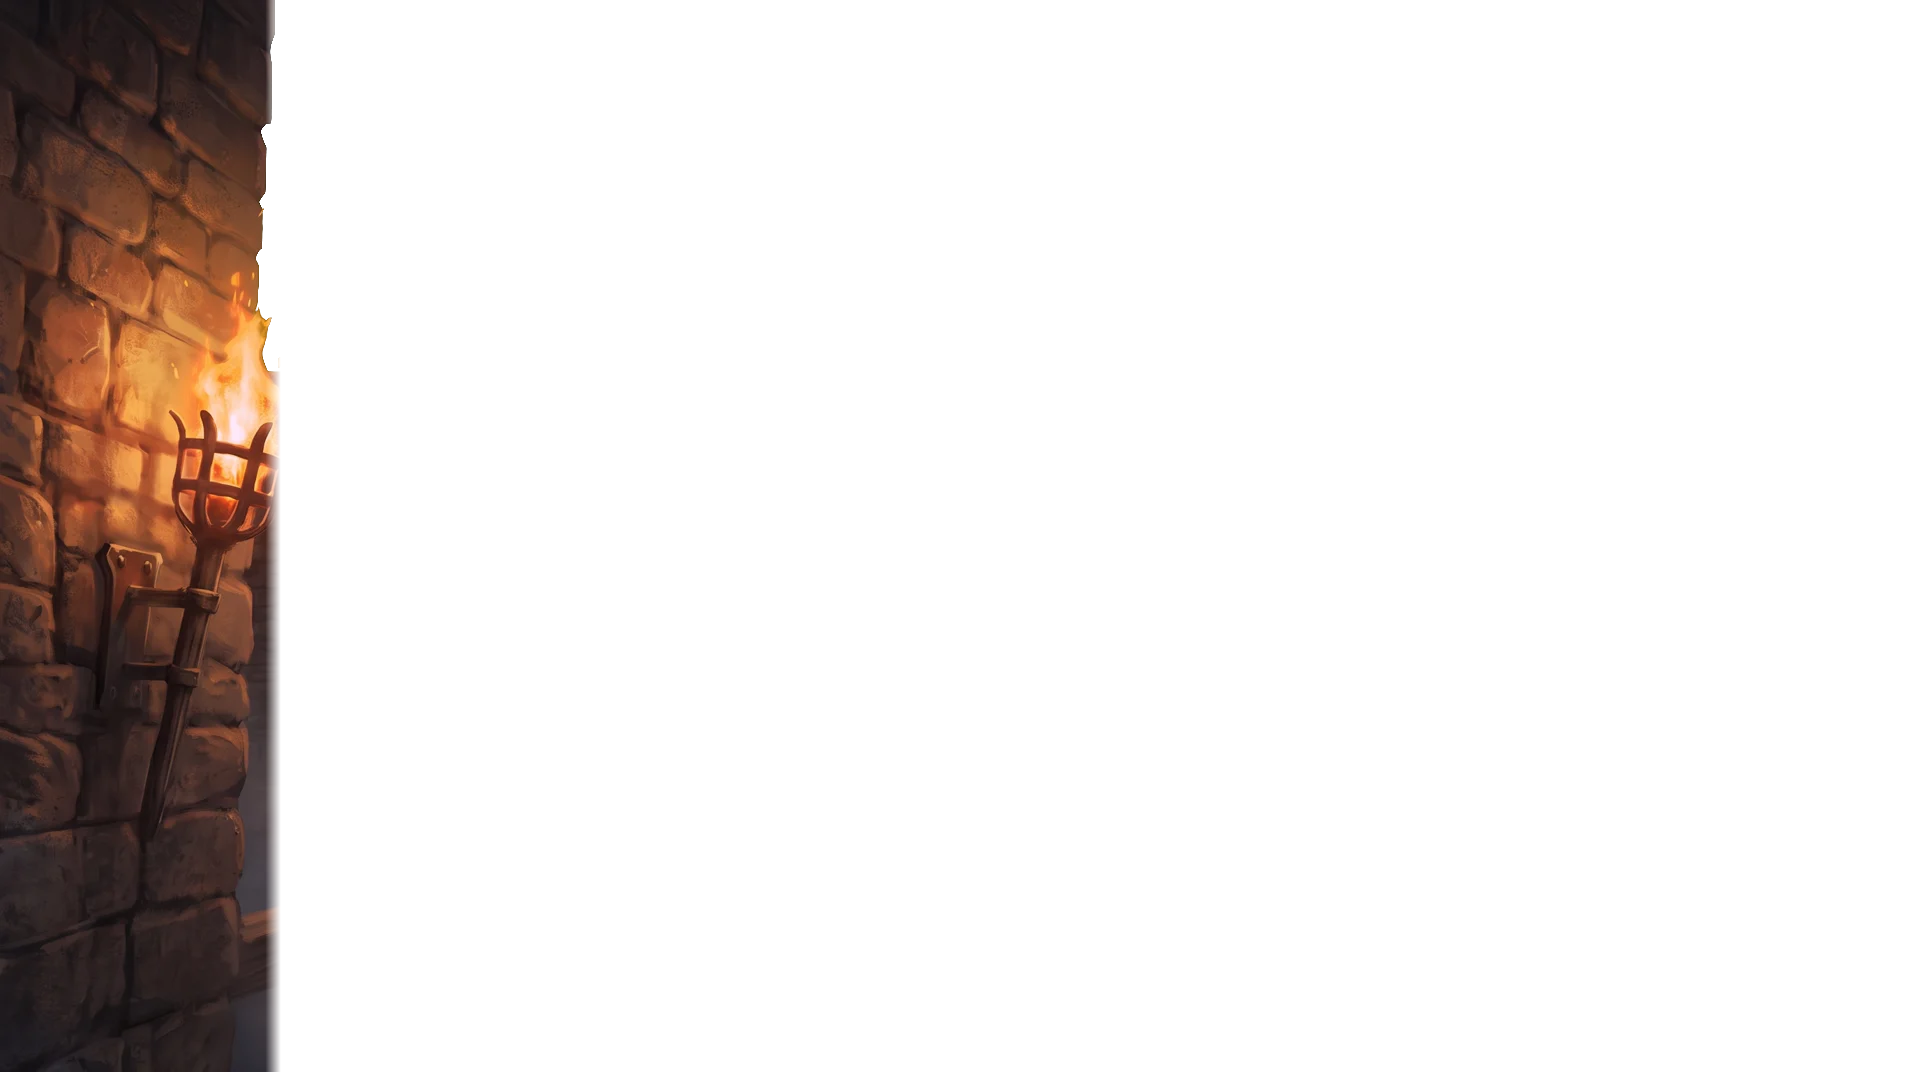
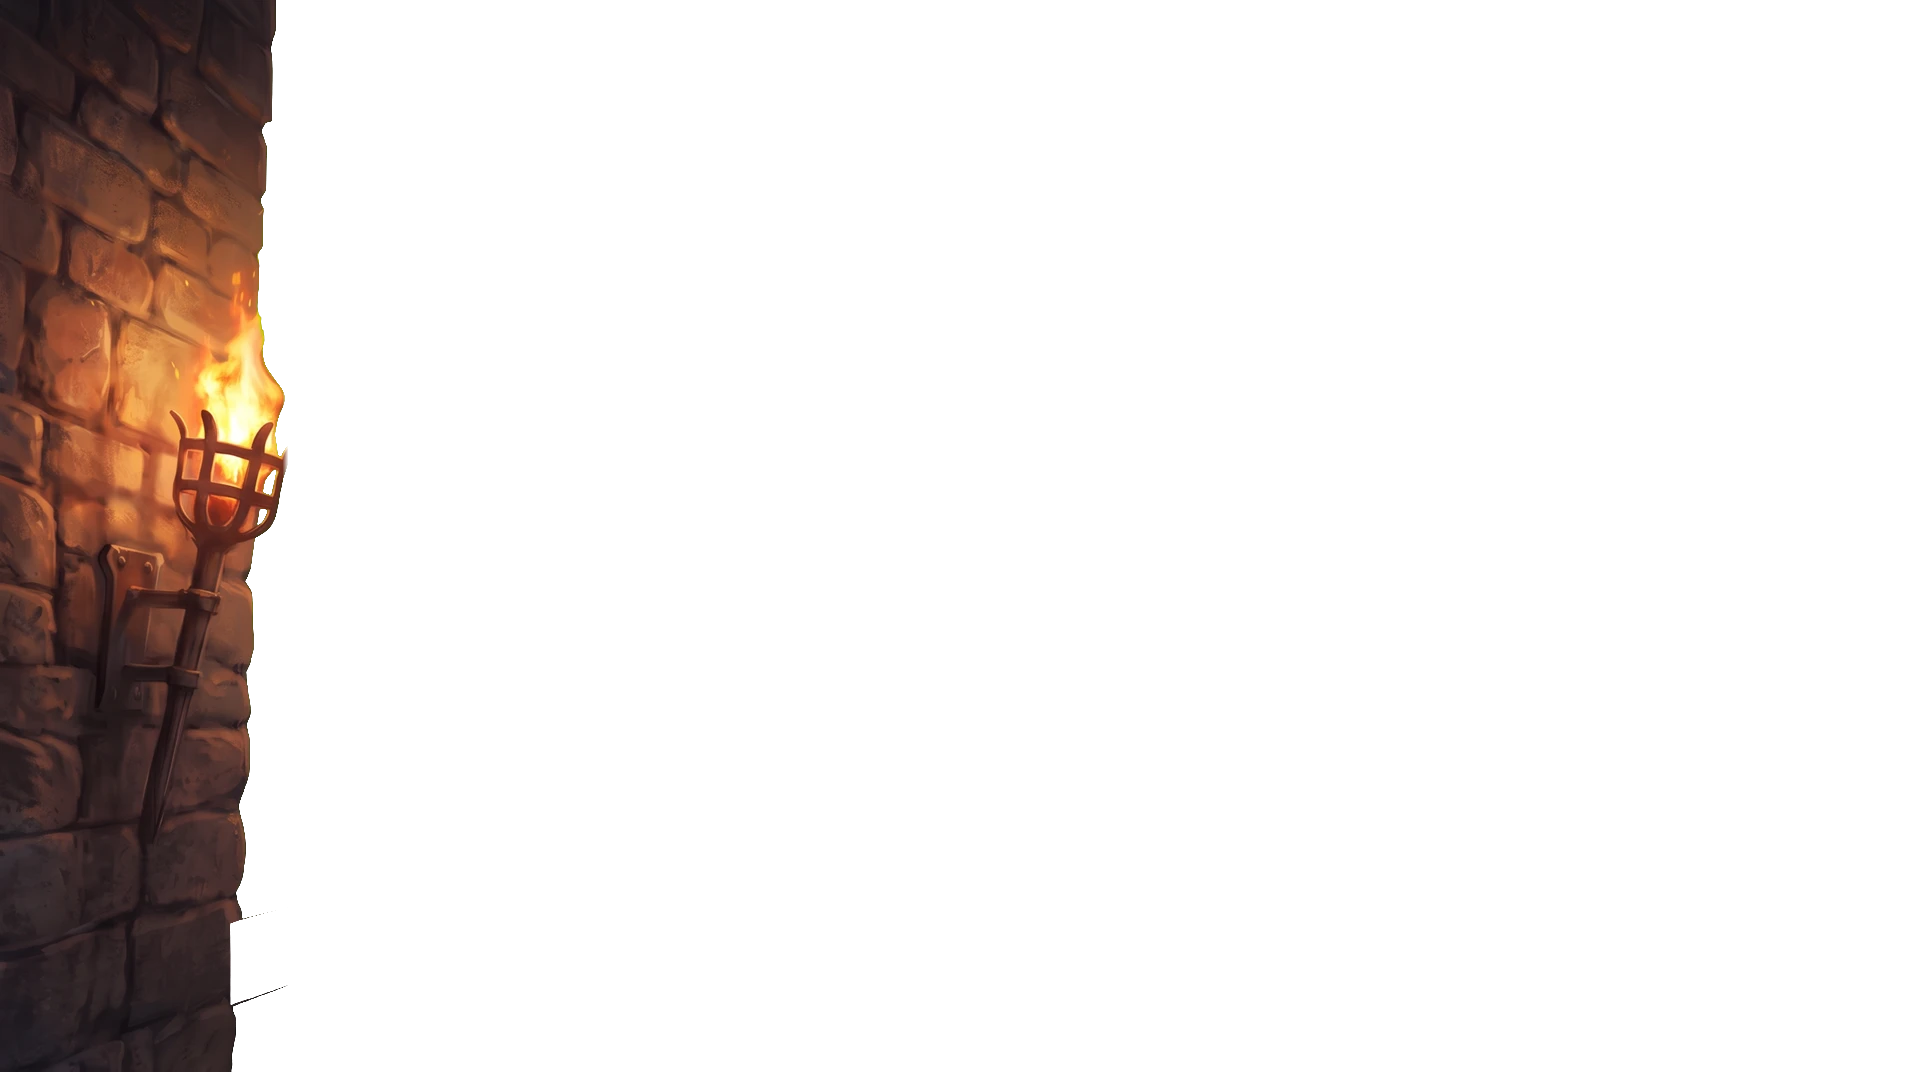
Wachterstocht gate: complete layers, staged as gatehouse, bridge, walls with sky; then a slow walk in
The gatehouse is now a full painting with moat and mist to every edge, the bridge and the walls are separate cut-outs, so moving layers never show a cut line. The gatehouse grows out of the dark behind a soft oval mask, the bridge rises from below, the walls close in with the sky and rocks. Torch fire and glows live in their own layer so they stay on the torches while the camera walks in with parallax.

Changed region(s): [[0.0625, 0.2771, 0.1562, 1.0], [0.125, 0.0, 0.1562, 0.0308]]

diff --git a/docs/index.html b/docs/index.html
@@ -477,31 +477,45 @@ button:focus-visible { outline: 2px solid var(--bone); outline-offset: 3px; }
 .scene { transform-origin: 13% 16%; transition: filter 1.6s ease, transform 7.5s cubic-bezier(.5,0,.75,.5); }
 .stage.inzoom .scene { transform: translate(40vw, 40vh) scale(2.6); filter: brightness(.6) saturate(1.2); } /* the castle (top left) moves to the middle */
 .stage.inzoom .hall { opacity: 0; pointer-events: none; }
-.tocht-decor { position: absolute; inset: 0; z-index: 5; overflow: hidden; background: #000; opacity: 0; transition: opacity 4.5s ease; pointer-events: none; }
+.tocht-decor { position: absolute; inset: 0; z-index: 5; overflow: hidden; background: #000; opacity: 0; transition: opacity 1.4s ease; pointer-events: none; }
 .tocht-decor.aan { opacity: 1; }
 .tocht-decor .p-beeld { position: absolute; } /* sized like object-fit: cover by dekBeeld(), so every layer, flame and the raven stay on their spot */
 .tocht-decor .pl { position: absolute; inset: 0; }
 .tocht-decor .pl img, .tocht-decor canvas { position: absolute; inset: 0; width: 100%; height: 100%; }
-/* entrance: sky first, then the gatehouse rises, the bridge comes up, the walls close in from the sides */
-.tocht-decor .pl-lucht { opacity: 0; transform: scale(1.12); transition: opacity 3.5s ease, transform 6s cubic-bezier(.2,.8,.3,1); }
-/* first the bridge comes up from below, then the gatehouse grows out of the depth (small to full size), then the walls close in */
-.tocht-decor .pl-brug { opacity: 0; transform: translateY(40%); transition: opacity 1.6s ease .8s, transform 2.6s cubic-bezier(.15,.85,.3,1) .8s; }
-.tocht-decor .pl-poort { opacity: 0; transform: scale(.78); transform-origin: 50% 74%; filter: blur(3px) brightness(.6); transition: opacity 2.6s ease 2.4s, transform 3.4s cubic-bezier(.2,.8,.3,1) 2.4s, filter 3s ease 2.4s; }
-.tocht-decor .pl-muur-l { transform: translateX(-100%); transition: transform 2.8s cubic-bezier(.15,.85,.3,1) 4.2s; }
-.tocht-decor .pl-muur-r { transform: translateX(100%); transition: transform 2.8s cubic-bezier(.15,.85,.3,1) 4.2s; }
-.tocht-decor .pl-vuur, .tocht-decor .fakkel, .tocht-decor .pl-mist, .tocht-decor .pl-vogels { opacity: 0; transition: opacity 2.5s ease 5.6s; }
+/* entrance, like a stage being set: 1. the gatehouse grows out of the dark, 2. the bridge comes up from below,
+   3. the walls close in from the sides while the sky and the rocks behind the castle appear.
+   Every layer is a complete cut-out with its own soft edges, and the gatehouse is masked with a soft oval
+   while it grows, so no straight edge is ever seen. After that the camera slowly walks in (.loop). */
+.tocht-decor .pl-poort { opacity: 0; transform: scale(.84); transform-origin: 50% 66%; filter: blur(4px) brightness(.5);
+  -webkit-mask: radial-gradient(closest-side, #000 60%, transparent) center / 100% 100% no-repeat; mask: radial-gradient(closest-side, #000 60%, transparent) center / 100% 100% no-repeat;
+  transition: opacity 2.4s ease, transform 3.8s cubic-bezier(.2,.8,.3,1), filter 3.2s ease, -webkit-mask-size 3.8s ease-in, mask-size 3.8s ease-in; }
+.tocht-decor .pl-brug { opacity: 0; transform: translateY(45%); transform-origin: 50% 66%; transition: opacity 1.2s ease 2.6s, transform 2.8s cubic-bezier(.15,.85,.3,1) 2.6s; }
+.tocht-decor .pl-muur-l { transform: translateX(-100%); transform-origin: 0 55%; transition: transform 2.8s cubic-bezier(.15,.85,.3,1) 4.6s; }
+.tocht-decor .pl-muur-r { transform: translateX(100%); transform-origin: 100% 55%; transition: transform 2.8s cubic-bezier(.15,.85,.3,1) 4.6s; }
+.tocht-decor .pl-lucht { opacity: 0; transform: scale(1.12); transition: opacity 3.5s ease 4.6s, transform 6s cubic-bezier(.2,.8,.3,1) 4.6s; }
+.tocht-decor .pl-mist, .tocht-decor .pl-vogels { opacity: 0; transition: opacity 3s ease 4s; }
+.tocht-decor .pl-poort .vuur, .tocht-decor .pl-poort .fakkel { opacity: 0; transition: opacity 2s ease 1.8s; }
+.tocht-decor.aan .pl-poort .vuur, .tocht-decor.aan .pl-poort .fakkel { opacity: 1; }
+.tocht-decor.aan .pl-poort { -webkit-mask-size: 340% 340%; mask-size: 340% 340%; }
+/* the walk in: nearer layers grow more, the walls part to the sides, all very slowly */
+.tocht-decor.loop .pl { transition: transform 18s cubic-bezier(.45,.05,.4,1); }
+.tocht-decor.aan.loop .pl-lucht { transform: scale(1.04); }
+.tocht-decor.aan.loop .pl-poort, .tocht-decor.loop .pl-brug { transform: scale(1.1); }
+.tocht-decor.aan.loop .pl-mist { transform: scale(1.16); transform-origin: 50% 85%; }
+.tocht-decor.aan.loop .pl-muur-l { transform: translateX(-7%) scale(1.22); }
+.tocht-decor.aan.loop .pl-muur-r { transform: translateX(7%) scale(1.22); }
 /* the five tasks come in one by one, so the castle can be seen first */
 .stage.in-kasteel #tocht .opdr { animation: opdrIn 1.1s cubic-bezier(.2,.9,.3,1) both; animation-delay: calc(var(--i) * .8s + .4s); }
 @keyframes opdrIn { from { opacity: 0; transform: translateY(6vh) scale(.92); filter: blur(4px); } }
 .tocht-decor.aan .pl-lucht { opacity: 1; transform: none; }
 .tocht-decor.aan .pl-poort, .tocht-decor.aan .pl-brug { opacity: 1; transform: none; filter: none; }
 .tocht-decor.aan .pl-muur-l, .tocht-decor.aan .pl-muur-r { transform: none; }
-.tocht-decor.aan .pl-vuur, .tocht-decor.aan .fakkel, .tocht-decor.aan .pl-mist, .tocht-decor.aan .pl-vogels { opacity: 1; }
+.tocht-decor.aan .pl-mist, .tocht-decor.aan .pl-vogels { opacity: 1; }
 .tocht-decor .pl-lucht img { animation: wolken 60s ease-in-out infinite alternate; }
 @keyframes wolken { from { transform: scale(1.02); } to { transform: scale(1.1) translate(-1.5%, .6%); } }
 .tocht-decor .pl-lucht.flits img { filter: brightness(1.9) saturate(1.3); transition: filter .05s; }
 .tocht-decor .pl-lucht img { transition: filter .6s ease; }
-.tocht-decor .pl-vuur { mix-blend-mode: plus-lighter; }
+.tocht-decor .vuur { mix-blend-mode: plus-lighter; }
 .tocht-decor .poort-raaf { left: 27.2%; top: 11.8%; width: 5.2%; }
 .tocht-decor .fakkel { position: absolute; width: 26%; aspect-ratio: 1; translate: -50% -50%; border-radius: 50%; mix-blend-mode: plus-lighter; pointer-events: none;
   background: radial-gradient(circle, rgba(255,190,110,.42), rgba(255,110,40,.18) 35%, transparent 68%); animation: fakkel 2.3s ease-in-out infinite; }
@@ -691,13 +705,11 @@ kbd { font: 11px var(--body); border: 1px solid rgba(239,227,212,.25); border-ra
   <div class="tocht-decor" id="tocht-decor"><div class="p-beeld" id="p-beeld">
     <div class="pl pl-lucht"><img id="tocht-beeld" src="a/poort/lucht.webp" alt=""><canvas id="poort-bliksem"></canvas></div>
     <canvas class="pl pl-vogels" id="poort-vogels"></canvas>
-    <div class="pl pl-poort"><img src="a/poort/poort.webp" alt=""><div class="raven poort-raaf"><div class="raaf-sprite"></div></div></div>
+    <div class="pl pl-poort"><img src="a/poort/poort.webp" alt=""><canvas class="vuur" id="poort-vuur"></canvas><span class="fakkel klein b" style="left:33.8%;top:55%"></span><span class="fakkel klein" style="left:66.3%;top:55%"></span><div class="raven poort-raaf"><div class="raaf-sprite"></div></div></div>
     <canvas class="pl pl-mist" id="poort-mist"></canvas>
+    <div class="pl pl-muur-l"><img src="a/poort/muur-l.webp" alt=""><canvas class="vuur" id="vuur-l"></canvas><span class="fakkel" style="left:11.8%;top:37%"></span></div>
+    <div class="pl pl-muur-r"><img src="a/poort/muur-r.webp" alt=""><canvas class="vuur" id="vuur-r"></canvas><span class="fakkel b" style="left:88.2%;top:37%"></span></div>
     <div class="pl pl-brug"><img src="a/poort/brug.webp" alt=""></div>
-    <div class="pl pl-muur-l"><img src="a/poort/muur-l.webp" alt=""></div>
-    <div class="pl pl-muur-r"><img src="a/poort/muur-r.webp" alt=""></div>
-    <canvas class="pl pl-vuur" id="poort-vuur"></canvas>
-    <span class="fakkel" style="left:11.8%;top:37%"></span><span class="fakkel b" style="left:88.2%;top:37%"></span><span class="fakkel klein b" style="left:33.8%;top:55%"></span><span class="fakkel klein" style="left:66.3%;top:55%"></span>
   </div></div>
   <div class="uitleg tocht-intro" id="tocht-intro" hidden aria-live="polite"><div class="uitleg-kaart"><h2 class="carved">De Wachterstocht</h2>
     <p>Vanavond betreden jullie mijn kasteel. Draag het vuur door de poorten, de gangen en de gewelven.</p>
@@ -794,13 +806,13 @@ kbd { font: 11px var(--body); border: 1px solid rgba(239,227,212,.25); border-ra
   </details>
 </div>
 
-<script src="a/events.js?v=40"></script>
-<script src="a/spel.js?v=40"></script>
-<script src="a/wachters.js?v=40"></script>
-<script src="a/firebase-config.js?v=40"></script>
-<script src="a/koppeling.js?v=40"></script>
-<script src="a/rollen.js?v=40"></script>
-<script src="a/tafel.js?v=40"></script>
+<script src="a/events.js?v=41"></script>
+<script src="a/spel.js?v=41"></script>
+<script src="a/wachters.js?v=41"></script>
+<script src="a/firebase-config.js?v=41"></script>
+<script src="a/koppeling.js?v=41"></script>
+<script src="a/rollen.js?v=41"></script>
+<script src="a/tafel.js?v=41"></script>
 <script>
 /* ================= data ================= */
 const ZEGELS = [
@@ -1345,7 +1357,7 @@ function kasteelIn(toonPaneel) {
   stage.classList.add("in-kasteel", "inzoom"); halMuziek.vol(.2, 2500); fade(wind, .5, 2500); fade(vuur, .3, 3000);
   const metIntro = true; tochtOpen = true; meld();
   const t = (ms, fn) => tochtIntroTimers.push(setTimeout(fn, ms));
-  t(metIntro ? 6500 : 2600, () => { if (poortKlaar()) { $("tocht-decor").classList.add("aan"); poortStart(); } });
+  t(metIntro ? 6500 : 2600, () => { if (poortKlaar()) { $("tocht-decor").classList.add("aan"); poortStart(); t(7600, () => $("tocht-decor").classList.add("loop")); } });
   if (!metIntro) return t(5000, toonPaneel);
   tochtIntroLoopt = true; speel("donder", .5);
   // Godfried speaks over the gate; when he is done the tasks come in
@@ -1355,27 +1367,29 @@ let tochtStem = null;
 function tochtIntroKlaar(toonPaneel = tochtIntroVerder) {
   if (tochtStem) { fade(tochtStem, 0, 600); tochtStem = null; }
   tochtIntroLoopt = false; tochtIntroTimers.forEach(clearTimeout); tochtIntroTimers = [];
-  if (poortKlaar()) { $("tocht-decor").classList.add("aan"); poortStart(); } $("tocht-intro").hidden = true; toonPaneel?.();
+  if (poortKlaar()) { $("tocht-decor").classList.add("aan", "loop"); poortStart(); } $("tocht-intro").hidden = true; toonPaneel?.();
 }
 let tochtIntroVerder = null;
 const POORT_VUUR = [[.122, .43, 1], [.877, .42, 1], [.332, .575, .55], [.667, .57, .55], [.454, .625, .3], [.553, .625, .3]]; // x, y, size (measured on the painting)
 let poortLoopt = false, poortTongen = [], poortMist = [], poortVogels = [], poortSchicht = null, poortVolgendeFlits = 0;
 function poortStart() { if (poortLoopt) return; poortLoopt = true; poortVolgendeFlits = performance.now() + 2500; requestAnimationFrame(poortFrame); }
-function poortMaat(cv) { const r = cv.getBoundingClientRect(), d = Math.min(2, devicePixelRatio || 1); if (cv.width !== Math.round(r.width * d)) { cv.width = Math.round(r.width * d); cv.height = Math.round(r.height * d); } return [cv.width, cv.height]; }
+// layout size, not the on-screen size: the layers scale while they move and the canvas must not be resized for that
+function poortMaat(cv) { const d = Math.min(2, devicePixelRatio || 1), w = Math.round(cv.offsetWidth * d), h = Math.round(cv.offsetHeight * d); if (cv.width !== w || cv.height !== h) { cv.width = w; cv.height = h; } return [cv.width, cv.height]; }
 function poortFrame(nu) {
   if (!stage.classList.contains("in-kasteel")) { poortLoopt = false; return; }
-  // torch fire: rising tongues per torch, additive
-  const vc = $("poort-vuur"), [W, H] = poortMaat(vc), v = vc.getContext("2d"); v.clearRect(0, 0, W, H); v.globalCompositeOperation = "lighter";
-  for (const [fx, fy, s] of POORT_VUUR) for (let k = 0; k < Math.ceil(3 * s) + 1; k++) if (Math.random() < .7)
-    poortTongen.push({ x: fx * W + (Math.random() - .5) * 22 * s * W / 1920, y: fy * H, vy: -(1.2 + Math.random() * 2.4) * s * H / 1080, r: (10 + Math.random() * 16) * s * W / 1920, t: 0, max: 26 + Math.random() * 22, f: Math.random() * 6 });
+  // torch fire: rising tongues per torch, additive, drawn in the layer the torch hangs on (wall left, wall right, gatehouse)
+  const doeken = ["vuur-l", "vuur-r", "poort-vuur"].map((id) => { const c = $(id), [w, h] = poortMaat(c), x = c.getContext("2d"); x.clearRect(0, 0, w, h); x.globalCompositeOperation = "lighter"; return x; });
+  const [W, H] = poortMaat($("poort-vuur"));
+  POORT_VUUR.forEach(([fx, fy, s], i) => { for (let k = 0; k < Math.ceil(3 * s) + 1; k++) if (Math.random() < .7)
+    poortTongen.push({ d: Math.min(i, 2), x: fx * W + (Math.random() - .5) * 22 * s * W / 1920, y: fy * H, vy: -(1.2 + Math.random() * 2.4) * s * H / 1080, r: (10 + Math.random() * 16) * s * W / 1920, t: 0, max: 26 + Math.random() * 22, f: Math.random() * 6 }); });
   poortTongen = poortTongen.filter((t) => t.t < t.max);
-  for (const t of poortTongen) {
+  for (const t of poortTongen) { const v = doeken[t.d];
     t.t++; t.f += .3; t.y += t.vy; t.x += Math.sin(t.f) * .6; const p = t.t / t.max, rad = t.r * (1 - p * .6);
     const kleur = p < .2 ? "255,235,180" : p < .45 ? "255,160,60" : p < .75 ? "255,80,30" : "150,20,15", a = (p < .1 ? p * 10 : 1 - p) * .5;
     const g = v.createRadialGradient(t.x, t.y, 0, t.x, t.y, rad); g.addColorStop(0, `rgba(${kleur},${a})`); g.addColorStop(1, `rgba(${kleur},0)`);
     v.fillStyle = g; v.beginPath(); v.ellipse(t.x, t.y, rad * .6, rad * 1.25, 0, 0, Math.PI * 2); v.fill();
   }
-  v.globalCompositeOperation = "source-over";
+  for (const v of doeken) v.globalCompositeOperation = "source-over";
   // mist drifting over the ground in front of the gate
   const mc = $("poort-mist"), [MW, MH] = poortMaat(mc), m = mc.getContext("2d"); m.clearRect(0, 0, MW, MH);
   while (poortMist.length < 26) poortMist.push({ x: Math.random() * 1.3 - .15, y: .62 + Math.random() * .36, w: .14 + Math.random() * .22, v: (.00012 + Math.random() * .00025) * (Math.random() < .5 ? 1 : -1), a: .18 + Math.random() * .22, f: Math.random() * 6 });
@@ -1406,7 +1420,7 @@ function poortFrame(nu) {
 }
 function kasteelUit() {
   tochtIntroLoopt = false; tochtIntroTimers.forEach(clearTimeout); tochtIntroTimers = []; $("tocht-intro").hidden = true;
-  $("tocht-decor").classList.remove("aan"); stage.classList.remove("in-kasteel");
+  $("tocht-decor").classList.remove("aan", "loop"); stage.classList.remove("in-kasteel");
   setTimeout(() => stage.classList.remove("inzoom"), 900); halMuziek.vol(.5, 3000); fade(wind, .2, 2500); fade(vuur, .12, 2500);
 }
 let fin = { nu: 0, open: {}, opgelost: {}, hint: {}, voortgang: {} }, ere = { i: -1, namen: {} }, paneelNu = null;
@@ -1535,7 +1549,7 @@ function zaalVuur() {
     const g = v.createRadialGradient(t.x, t.y, 0, t.x, t.y, rad); g.addColorStop(0, `rgba(${kleur},${al})`); g.addColorStop(1, `rgba(${kleur},0)`);
     v.fillStyle = g; v.beginPath(); v.ellipse(t.x, t.y, rad * .6, rad * 1.25, 0, 0, Math.PI * 2); v.fill();
   }
-  v.globalCompositeOperation = "source-over"; requestAnimationFrame(zaalVuur);
+  for (const v of doeken) v.globalCompositeOperation = "source-over"; requestAnimationFrame(zaalVuur);
 }
 function tekenTocht() {
   $("tocht").innerHTML = S.tocht.map((o, i) => `<div class="opdr ${tochtGedaan.has(o.id) ? "gedaan" : ""}" style="--i:${i}"><span class="vink">✓</span>

diff --git a/docs/wachter.html b/docs/wachter.html
@@ -193,12 +193,12 @@ body.in-frame main { visibility: hidden; }
   <section class="paneel"><h2 class="carved" id="melding-kop"></h2><p id="melding-tekst"></p><button class="knop" type="button" id="melding-ok">Begrepen</button></section>
 </div>
 
-<script src="a/wachters.js?v=40"></script>
-<script src="a/spel.js?v=40"></script>
-<script src="a/rollen.js?v=40"></script>
-<script src="a/firebase-config.js?v=40"></script>
-<script src="a/koppeling.js?v=40"></script>
-<script src="a/tafel.js?v=40"></script>
+<script src="a/wachters.js?v=41"></script>
+<script src="a/spel.js?v=41"></script>
+<script src="a/rollen.js?v=41"></script>
+<script src="a/firebase-config.js?v=41"></script>
+<script src="a/koppeling.js?v=41"></script>
+<script src="a/tafel.js?v=41"></script>
 <script>
 const $ = (id) => document.getElementById(id);
 // a new version online? then this page refreshes itself (checked every minute; never while typing)

diff --git a/docs/regie-8d785a0dfd.html b/docs/regie-8d785a0dfd.html
@@ -211,12 +211,12 @@ input[type=text] { width: 100%; font: inherit; color: var(--bone); background: r
   </section>
 </main>
 
-<script src="a/events.js?v=40"></script>
-<script src="a/spel.js?v=40"></script>
-<script src="a/wachters.js?v=40"></script>
-<script src="a/rollen.js?v=40"></script>
-<script src="a/firebase-config.js?v=40"></script>
-<script src="a/koppeling.js?v=40"></script>
+<script src="a/events.js?v=41"></script>
+<script src="a/spel.js?v=41"></script>
+<script src="a/wachters.js?v=41"></script>
+<script src="a/rollen.js?v=41"></script>
+<script src="a/firebase-config.js?v=41"></script>
+<script src="a/koppeling.js?v=41"></script>
 <script>
 const $ = (id) => document.getElementById(id);
 // a new version online? then this page refreshes itself (checked every minute; never while typing)

diff --git a/docs/chaos-06d0ece377.html b/docs/chaos-06d0ece377.html
@@ -114,9 +114,9 @@ button[data-rust]:not([data-rust=""])::after { content: "rust " attr(data-rust);
 </main>
 <div class="melding" id="melding" role="status"></div>
 
-<script src="a/wachters.js?v=40"></script>
-<script src="a/firebase-config.js?v=40"></script>
-<script src="a/koppeling.js?v=40"></script>
+<script src="a/wachters.js?v=41"></script>
+<script src="a/firebase-config.js?v=41"></script>
+<script src="a/koppeling.js?v=41"></script>
 <script>
 const $ = (id) => document.getElementById(id);
 // a new version online? then this page refreshes itself (checked every minute; never while typing)
